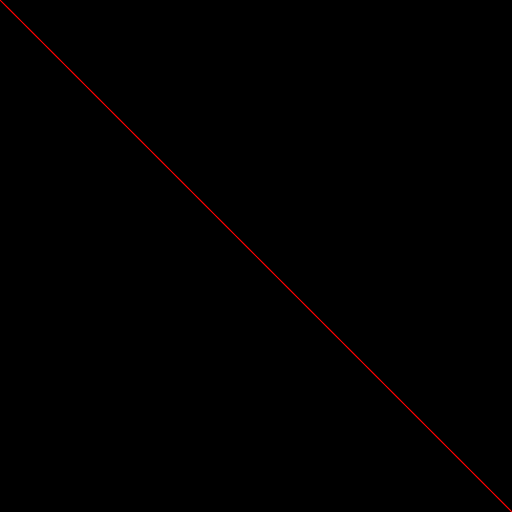
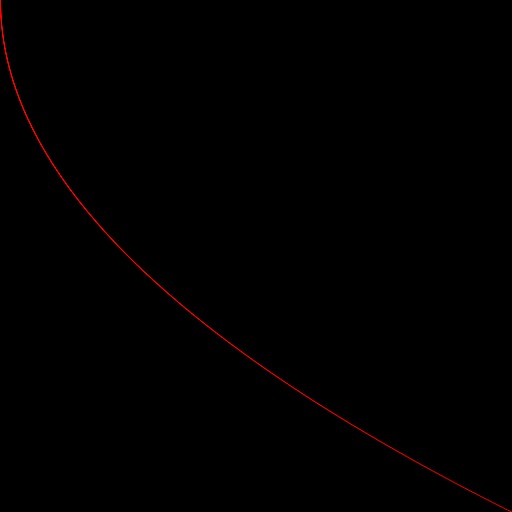
[;]poiuhjytgfdsc

diff --git a/dit/src/main.rs b/dit/src/main.rs
@@ -1,13 +1,14 @@
 use std::{
     iter::Sum,
     ops::{Add, Div, Mul, Sub},
+    thread::current,
 };
 
 use image::{ImageBuffer, Rgb};
 fn main() {
     println!("Hello, world!");
     let p0 = Vec2 { x: 0.0, y: 0.0 };
-    let p1 = Vec2 { x: 256.0, y: 256.0 };
+    let p1 = Vec2 { x: 0.0, y: 256.0 };
     let p2 = Vec2 { x: 512.0, y: 512.0 };
     let qbc = QBezierCurve {
         points: [p0, p1, p2],
@@ -75,7 +76,7 @@ fn is_linear(curve: &QBezierCurve) -> bool {
     let slope_01 = (p1.y - p0.y) / (p1.x - p0.x);
     let slope_12 = (p2.y - p1.y) / (p2.x - p1.x);
     if slope_01 == slope_12 {
-        true
+        return true;
     }
     false
 }
@@ -99,7 +100,7 @@ fn generate_sdf(curve: QBezierCurve, img: &mut ImageBuffer<Rgb<u8>, Vec<u8>>) {
                 let c = p0 + (p2 - p0) * clamped_t;
                 println!("{}", (pos - c).magnitude());
 
-                plot(img, x, y, (pos - c).magnitude() / 512.0);
+                plot(img, x, y, (pos - c).magnitude() / 255.0);
             }
         }
     } else {
@@ -157,11 +158,50 @@ impl Add for Vec2 {
 }
 impl Mul for Vec2 {
     fn mul(self, rhs: Self) -> Self::Output {
-        (self.x * rhs.x) + (self.y + rhs.y)
+        (self.x * rhs.x) + (self.y * rhs.y)
     }
     type Output = f32;
 }
+struct Polynomial {
+    coefficients: Vec<f32>,
+    degree: usize,
+}
+impl Polynomial {
+    fn evaluate(&mut self) {}
+    fn mul() {}
+    fn div() {}
+    fn add() {}
+    fn sub(&mut self, rhs: Self) {
+        //this just reduces down a -1 distribution problem and then invoking add on the reslt
+    }
+    fn derirative(&mut self) -> Self {
+        Self {
+            coefficients: [],
+            degree: 0,
+        }
+    }
+}
 
+fn evaluate_polynomial(x: f32, function: &Polynomial) -> f32 {
+    let mut total_value = 0.0;
+    let mut current_degree = function.degree;
+    for coefficient in &function.coefficients {
+        let term = x.powi(current_degree as i32); // x^current_degree
+        total_value += term * coefficient; // Add term to total_value
+        current_degree -= 1; // Decrease degree for the next term
+    }
+    total_value
+}
+fn bisection_method(a: Polynomial, eta: f32) -> Option<Vec<f32>> {
+    //eta is defined as the small value
+    let mut x = 0;
+    //determine the best guess for this prior to computation
+    let mut h = 0;
+    while h.abs() >= eta {
+        h = a.evaluate() / a.derirative();
+    }
+    None
+}
 //problem trying to solve :
 //find the distance of a given point from a contour/line segment
 //this distance must have a sign value indicating inside or outside of the shape
@@ -172,4 +212,4 @@ impl Mul for Vec2 {
 //to solve for the min distance of a cubic bezier curve from a given point, solve its derirative
 //t is the value on the curve that yields the min dist from a given point to the curve
 //some form of ray marching or analytically solve the polynomial
-//
+//t
